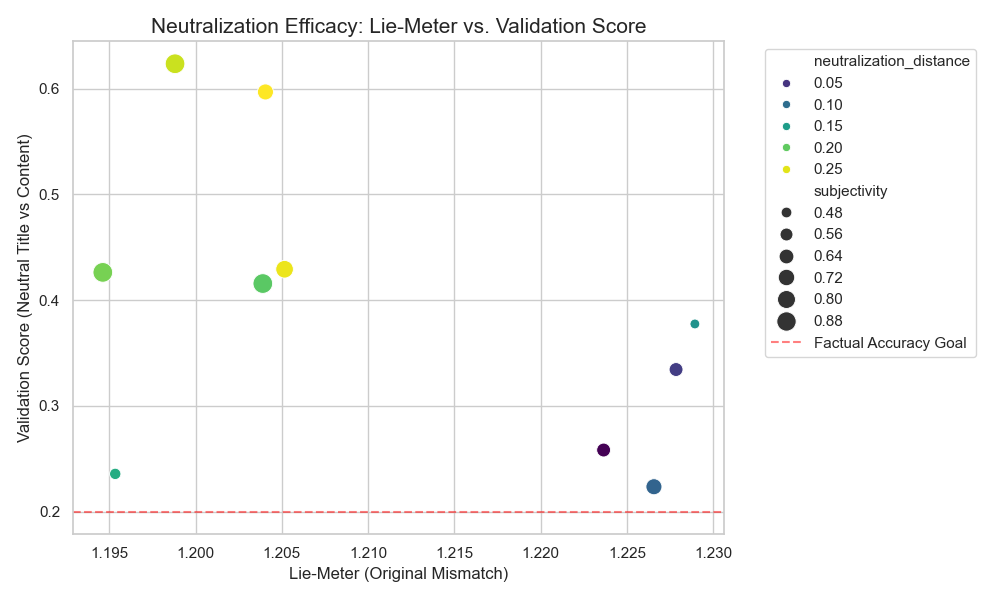
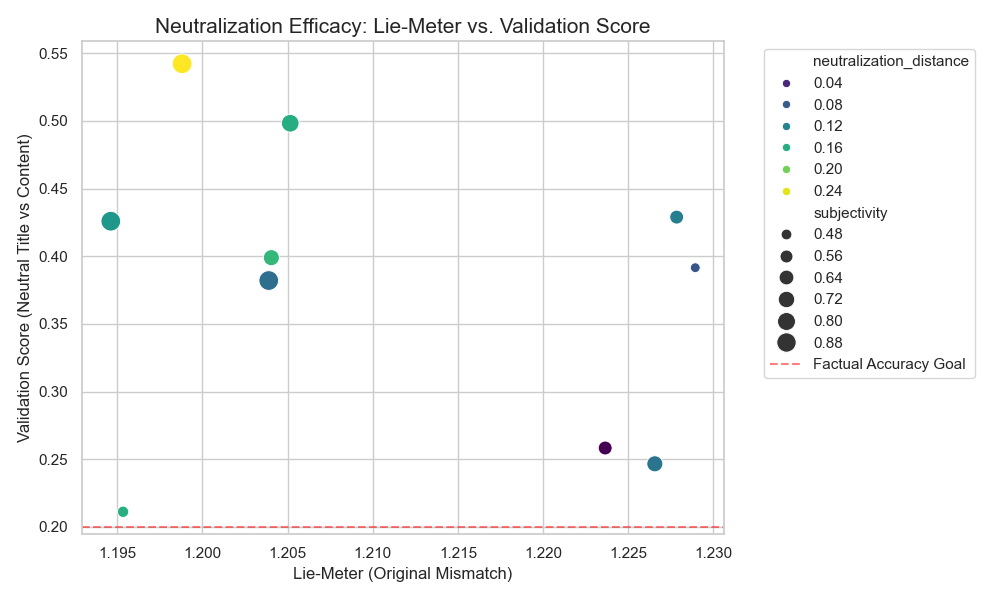
Changed prompts and readme.md

diff --git a/Testing LLM/NOS news articles source/news_neutralizer.py b/Testing LLM/NOS news articles source/news_neutralizer.py
@@ -103,7 +103,6 @@ def ollama_neutralizer(title, model_name="mistral"):
     Now process this input:
     Input: "{title}"
     Output:"""
-
     try:
         response = ollama.chat(model=model_name, messages=[
             {'role': 'system', 'content': system_instruction},

diff --git a/README.md b/README.md
@@ -1,2 +1,28 @@
 # Keytopic-assignment-3
-Application and testing for Keytopics Assignment 3
+This repository contains software developed for assignment 3 of the course IM0712: Key Topics in Artificial Intelligence at the Open Universiteit.  The software supports the small paper written by Dorothy Lekston and John Stegink.
+It contains the source code for a web application and several data processing/AI testing scripts. The project primarily tests LLM (Large Language Model) interactions for neutralizing sensational Dutch news headlines.
+
+## Directory Structure
+
+### `Application/`
+Contains the main Flask web application for the project.
+*   **`run.py`**: The main entry point to start the Flask server.
+*   **`main.py` / `config.py`**: Entry points, setup, and configuration logic for running the Flask server.
+*   **`app/__init__.py`**: Flask app factory initialization.
+*   **`app/blueprints/rss/`**: Implements the primary route and logic:
+    *   **`routes.py`**: Web endpoints for viewing the application.
+    *   **`utils.py`**: Utility functions for data handling.
+    *   **`ai.py`**: Manages direct connections and prompts to the LLM to generate "de-sensationalized" headlines.
+
+### `Testing LLM/`
+Various scripts used for scraping data, dataset manipulation, and testing the LLM's abilities to modify and neutralize sentiment.
+
+**`NOS news articles source/`**
+*   **`Download.py`**: Script designed to fetch, download, and store news items from the NOS.
+*   **`news_neutralizer_multi.py`**: LLM testing script that experiment with translating sensational titles into factual, trivial sentences.
+*   **`news_neutralizer.py`**: A more focused script that takes high-subjectivity headlines and uses the LLM to neutralize them, creating a "Nieuws-Normalisator" (News Normalizer).
+*   **`add_sentiment_column.py`**: Analyzes the sentiment of articles and augments the dataset with the results.
+*   **`add_embedding.py`**: Generates and attaches numerical embeddings to text data for similarity search and analysis.
+*   **`selection.py` / `split_csv.py` / `test.py`**: Miscellaneous data wrangling tools and scripts to process CSV dumps of the articles.
+*   **`run_stress_test.py`**: Script to benchmark and stress-test the LLM pipeline for performance and stability limits.
+*   **`rss_crawler.py`**: A scraper specifically designed to gather updates from alternative RSS news sources.
